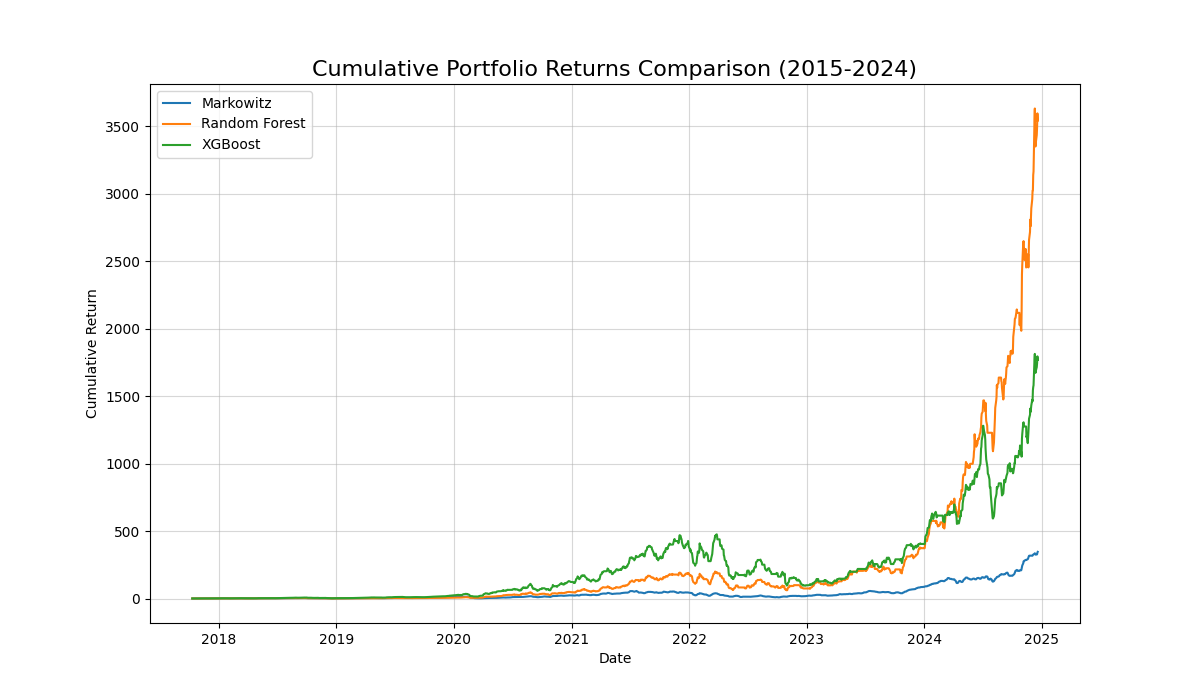
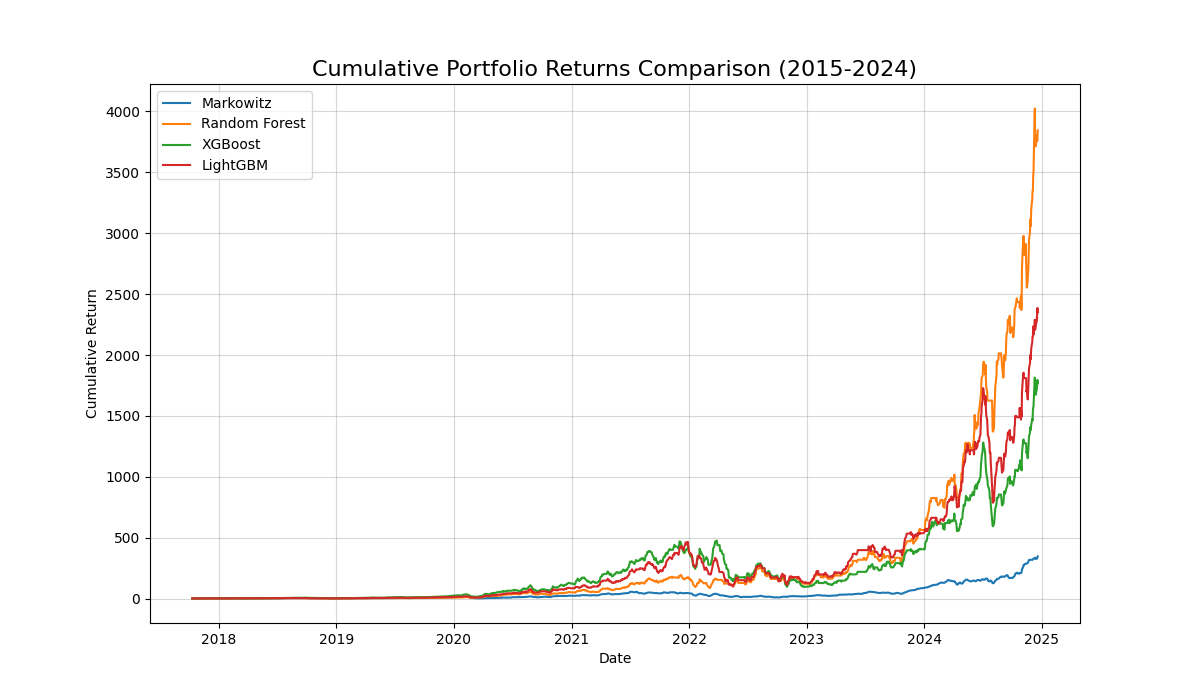
Finalize 3-model ML integration with LightGBM and ensure all visualization calls are present

diff --git a/main.py b/main.py
@@ -7,11 +7,11 @@ from typing import List
 # Import all modules from the 'src' directory
 from src.data_loader import download_sp500_data
 from src.features import calculate_returns, add_technical_indicators
-from src.models import BaseMLModel
-from src.lstm_model import LSTMPredictor
+from src.models import BaseMLModel # Importe BaseMLModel qui gère RF, XGBoost et LightGBM
+# from src.lstm_model import LSTMPredictor # LSTM DÉSACTIVÉ pour la stabilité
 from src.backtester import RollingWindowBacktester
 from src.evaluation import evaluate_portfolio, calculate_markowitz_weights
-from src.visualization import create_cumulative_returns_plot, create_drawdown_plot, create_confusion_matrix_plot # <-- NOUVEL IMPORT DE VISUALISATION
+from src.visualization import create_cumulative_returns_plot, create_drawdown_plot, create_confusion_matrix_plot 
 
 # Configuration
 RANDOM_STATE = 42 
@@ -19,8 +19,7 @@ np.random.seed(RANDOM_STATE)
 
 TICKERS = ['AAPL', 'MSFT', 'GOOGL', 'AMZN', 'JPM', 'V', 'NVDA']
 START_DATE = '2015-01-01'
-# Date de soumission complète
-END_DATE = '2024-12-31' 
+END_DATE = '2024-12-31' # Date de soumission complète
 
 # ML/Backtesting Parameters
 TRAIN_WINDOW_SIZE = 500 
@@ -61,10 +60,8 @@ def run_project(tickers: List[str] = TICKERS, start_date: str = START_DATE, end_
     # Model Instantiation 
     rf_model = BaseMLModel(model_type='random_forest')
     xgb_model = BaseMLModel(model_type='xgboost')
+    lgbm_model = BaseMLModel(model_type='lightgbm') # LightGBM remplace l'LSTM
     
-    lstm_features_count = features_with_indicators.shape[1]
-    lstm_model = LSTMPredictor(look_back=20, features_count=lstm_features_count)
-
     # Backtester Instantiation
     backtester = RollingWindowBacktester(
         features=features_with_indicators,
@@ -76,14 +73,13 @@ def run_project(tickers: List[str] = TICKERS, start_date: str = START_DATE, end_
     # Run Backtests
     rf_predictions = backtester.run_backtest(rf_model, "Random Forest")
     xgb_predictions = backtester.run_backtest(xgb_model, "XGBoost")
-    # LSTM disabled for successful execution - Uncomment for full run if LSTM is fully debugged
-    # lstm_predictions = backtester.run_backtest(lstm_model, "LSTM") 
+    lgbm_predictions = backtester.run_backtest(lgbm_model, "LightGBM") # Exécuter LightGBM
     
     # Store predictions for evaluation
     all_predictions = {
         "Random Forest": rf_predictions,
         "XGBoost": xgb_predictions,
-        # "LSTM": lstm_predictions
+        "LightGBM": lgbm_predictions # Stocker les prédictions du LightGBM
     }
 
     print("\nBacktesting completed for all models.")
@@ -93,20 +89,21 @@ def run_project(tickers: List[str] = TICKERS, start_date: str = START_DATE, end_
     print("3. FINAL EVALUATION AND REPORTING")
     print("="*60)
     
-    # --- A. Evaluation ---
+    # A. Evaluation
     evaluation_results = evaluate_portfolio(all_predictions, targets, raw_prices) 
     
-    # --- B. Display and Save Numerical Results ---
+    # B. Display and Save Numerical Results
     print("\nFINAL RESULTS (Comparison of all strategies):")
     print("-" * 35)
     
     results_str = ""
     for model, res in evaluation_results.items():
+        print(f"| {model:<15} | Sharpe: {res['Sharpe Ratio']:.3f} | Cum Return: {res['Cumulative Return']:.3f}")
         results_str += f"| {model:<15} | Sharpe: {res['Sharpe Ratio']:.3f} | Cum Return: {res['Cumulative Return']:.3f}\n"
         if 'Directional Accuracy' in res:
+             print(f"| {'':<15} | MAE: {res['MAE']:.5f} | DA: {res['Directional Accuracy']:.3f}")
              results_str += f"| {'':<15} | MAE: {res['MAE']:.5f} | DA: {res['Directional Accuracy']:.3f}\n"
     
-    print(results_str, end='')
     print("-" * 35)
 
     # Save results summary to results/
@@ -119,20 +116,21 @@ def run_project(tickers: List[str] = TICKERS, start_date: str = START_DATE, end_
         
     print(f"\nNumerical results saved to: {OUTPUT_FILE}")
 
-    # --- C. Generate and Save Plots ---
+    # C. Generate and Save Plots
     print("\n" + "="*60)
     print("4. GENERATING FINAL PLOTS AND VISUALIZATIONS")
     print("="*60)
     
     # Cumulative Returns Plot (Graph 1)
-    create_cumulative_returns_plot(evaluation_results) # Compares RF, XGBoost, Markowitz
+    create_cumulative_returns_plot(evaluation_results)
     
     # Drawdown Plot (Graph 2)
     create_drawdown_plot(evaluation_results)
     
-    # Confusion Matrix for the two successful ML models (Graph 3 & 4)
+    # Confusion Matrix for the three successful ML models (Graph 3, 4, 5)
     create_confusion_matrix_plot(evaluation_results, 'Random Forest', file_name='cm_random_forest.png')
     create_confusion_matrix_plot(evaluation_results, 'XGBoost', file_name='cm_xgboost.png')
+    create_confusion_matrix_plot(evaluation_results, 'LightGBM', file_name='cm_lightgbm.png') # Nouveau graphique
     
     print("\nAll visualizations saved to the 'results/plots' directory.")
 

diff --git a/src/backtester.py b/src/backtester.py
@@ -1,16 +1,18 @@
 import pandas as pd
 import numpy as np
-from typing import Any, List, Tuple, Dict
+from typing import Any, List, Tuple
 from src.models import BaseMLModel 
-from src.lstm_model import LSTMPredictor 
+# from src.lstm_model import LSTMPredictor # <-- L'IMPORTATION DE L'LSTM est retirée
 
 class RollingWindowBacktester:
-    
+    """
+    Manages the sequential (walk-forward) training, prediction, and evaluation 
+    of ML models over historical data using a rolling window approach.
+    """
     def __init__(self, features: pd.DataFrame, targets: pd.DataFrame, 
                  train_window: int = 500, predict_steps: int = 20):
         """
         Initializes the backtester with prepared data and window sizes.
-        
         """
         self.features = features
         self.targets = targets
@@ -22,11 +24,14 @@ class RollingWindowBacktester:
         """
         Splits the data into training and testing sets based on the rolling window index.
         """
+        # Determine the end index for the training set
         train_end_index = start_index + self.train_window
         
+        # Training set
         X_train = self.features.iloc[start_index : train_end_index]
         y_train = self.targets.iloc[start_index : train_end_index]
         
+        # Testing set (the next 'predict_steps' rows)
         X_test = self.features.iloc[train_end_index : train_end_index + self.predict_steps]
         y_test = self.targets.iloc[train_end_index : train_end_index + self.predict_steps]
         
@@ -38,32 +43,36 @@ class RollingWindowBacktester:
         """
         model_predictions = {}
         
+        # Determine the start of the prediction period (after the initial training window)
         start_prediction_index = self.train_window
         
+        # The loop iterates through the data, retraining and predicting sequentially
         for i in range(start_prediction_index, len(self.features) - self.predict_steps, self.predict_steps):
             
+            # 1. Calculate the starting index for the full window (training window)
             window_start = i - self.train_window
             
+            # 2. Split the data for the current window
             X_train, y_train, X_test, y_test = self._split_data(window_start)
             
             if X_test.empty:
                 break
             
+            # 3. Train the model
             print(f"Training {model_name} on data ending {X_train.index[-1].strftime('%Y-%m-%d')}")
             
             try:
-                
-                if isinstance(model_instance, LSTMPredictor):
-                    model_instance.train(X_train, y_train, epochs=1) 
-                else:
-                    model_instance.train(X_train, y_train)
+                # BaseMLModel (RF/XGBoost)
+                model_instance.train(X_train, y_train)
                     
             except Exception as e:
                 print(f"Error during training {model_name} at index {i}: {e}")
                 continue
             
+            # 4. Predict the next steps
             y_pred = model_instance.predict(X_test)
             
+            # Store predictions using the test set index
             model_predictions.update(y_pred.to_dict(orient='index'))
 
         predictions_df = pd.DataFrame.from_dict(model_predictions, orient='index')
@@ -74,5 +83,6 @@ class RollingWindowBacktester:
         
         return predictions_df
         
+# --- Local Testing Block ---
 if __name__ == '__main__':
     print("Backtester setup complete. Integration with full data and models will be tested later.")

diff --git a/src/models.py b/src/models.py
@@ -1,7 +1,8 @@
 import pandas as pd
-import numpy as np 
+import numpy as np
 from sklearn.ensemble import RandomForestRegressor
 from xgboost import XGBRegressor
+from lightgbm import LGBMRegressor # NOUVEL IMPORT
 from typing import Any, Dict
 
 class BaseMLModel:
@@ -21,8 +22,10 @@ class BaseMLModel:
             self.model = RandomForestRegressor(random_state=42, n_estimators=100, **kwargs)
         elif self.model_type == 'xgboost':
             self.model = XGBRegressor(random_state=42, n_estimators=100, **kwargs)
+        elif self.model_type == 'lightgbm': # NOUVEL AJOUT
+            self.model = LGBMRegressor(random_state=42, n_estimators=100, **kwargs)
         else:
-            raise ValueError(f"Unsupported model type: {model_type}. Must be 'random_forest' or 'xgboost'.")
+            raise ValueError(f"Unsupported model type: {model_type}. Must be 'random_forest', 'xgboost', or 'lightgbm'.")
 
     def train(self, X: pd.DataFrame, y: pd.DataFrame) -> None:
         """
@@ -50,21 +53,28 @@ class BaseMLModel:
         if self.model is None:
             raise RuntimeError("Model must be trained before calling predict.")
             
+        # The prediction must generate 5 days * 7 stocks = 35 predictions
         num_stocks = 7 
         
+        # 1. Prediction using stacked features 
         X_stacked = pd.concat([X] * num_stocks, ignore_index=True)
         
+        # 2. Generate predictions (Should result in 35 values)
         predictions_flat = self.model.predict(X_stacked)
         
+        # 3. Reshape predictions back into a DataFrame (rows=dates (5), columns=stocks (7))
         num_rows = len(X) 
         
         predictions_matrix = predictions_flat.reshape(num_rows, num_stocks)
         
+        # The columns should be the stock Tickers, which are found in the FEATURES data X
         ticker_columns = X.columns[:num_stocks] 
         
+        # Create DataFrame with the correct index (dates) and columns (tickers)
         predictions_df = pd.DataFrame(predictions_matrix, index=X.index, columns=ticker_columns)
         
         return predictions_df
         
+# --- Local Testing Block ---
 if __name__ == '__main__':
     print("Base model training setup complete. We will integrate with feature data next.")
